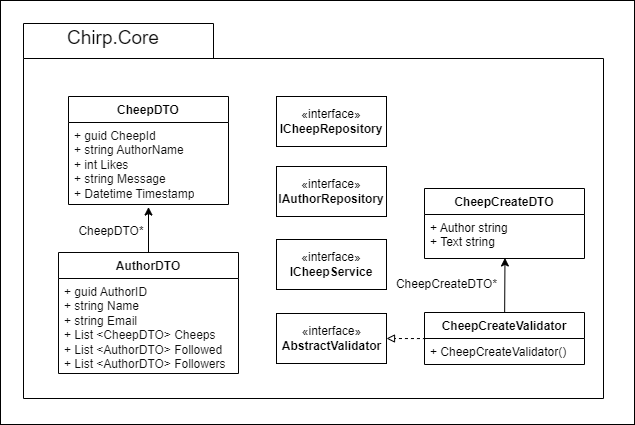
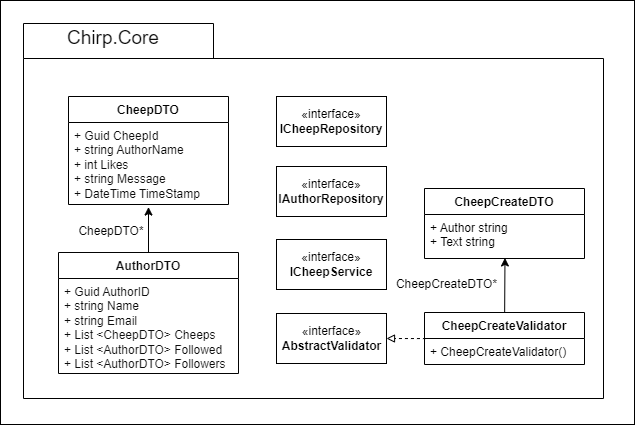
Added missing methods to the UML diagram

Changed region(s): [[0.1795, 0.4282, 0.3291, 0.4894], [0.1197, 0.3059, 0.2693, 0.3365], [0.1197, 0.6729, 0.2394, 0.7035]]

diff --git a/src/Chirp.Infrastructure/CheepRepository.cs b/src/Chirp.Infrastructure/CheepRepository.cs
@@ -82,8 +82,6 @@ public class CheepRepository : ICheepRepository
         return GetRangeOfCheeps(pageNum, cheepsToReturn);
     }
 
-
-
     private static List<CheepDTO> GetRangeOfCheeps(int? pageNum, List<CheepDTO> cheepsToReturn) 
     {
         // Calculate starting index from the given pagenumber
@@ -256,21 +254,7 @@ public class CheepRepository : ICheepRepository
         cheepsToReturn.AddRange(AuthorCheeps);
         cheepsToReturn.AddRange(FollowedCheeps);
         
-        //OrderByDescending doesn't sort the list but returns a new sequence, therefore we need to assign it to a new list
-        var sortedCheeps = cheepsToReturn.OrderByDescending(a => a.Timestamp.Ticks).ToList();
-        int? page = (pageNum - 1) * 32;
-        
-        if (cheepsToReturn.Count < 32)
-        {
-            return sortedCheeps.GetRange(0, cheepsToReturn.Count);
-        } if (page == null)
-        {
-            return sortedCheeps.GetRange(0, 32);
-        } else
-        {
-            int endIndex = Math.Min((int)page + 32, (int)cheepsToReturn.Count);
-            return sortedCheeps.GetRange((int)page, endIndex - (int)(page));
-        }
+        return GetRangeOfCheeps(pageNum, cheepsToReturn);
     }
 
     public int GetCountOfAllCheepsFromCombinedAuthor (string AuthorName)
@@ -278,8 +262,10 @@ public class CheepRepository : ICheepRepository
         List<CheepDTO> AuthorCheeps = GetAllCheepsFromAuthor(AuthorName);
         List<CheepDTO> FollowedCheeps = GetCheepsFromFollowed(AuthorName);
         List<CheepDTO> cheepsToReturn = new List<CheepDTO>();
+
         cheepsToReturn.AddRange(AuthorCheeps);
         cheepsToReturn.AddRange(FollowedCheeps);
+        
         return cheepsToReturn.Count;
     }
 }

diff --git a/src/Chirp.Infrastructure/AuthorRepository.cs b/src/Chirp.Infrastructure/AuthorRepository.cs
@@ -173,7 +173,7 @@ namespace Chirp.Infrastructure
         }
 
         // Helper method: Retrieves all cheeps related to the given author from the db.
-        private  static List<CheepDTO> GetAllCheepsFromAuthor(string Name, ChirpDBContext _dbcontext)
+        private static List<CheepDTO> GetAllCheepsFromAuthor(string Name, ChirpDBContext _dbcontext)
         {
             List<CheepDTO> cheepsToReturn = new List<CheepDTO>();
             try
@@ -197,11 +197,11 @@ namespace Chirp.Infrastructure
         }
 
         // Helper method: Retrieves all followed authors from the AuthorAuthor entity in the db.
-        private static List<AuthorDTO> GetAllFollowedAuthor(Guid AuthorId, ChirpDBContext DBcontext)
+        private static List<AuthorDTO> GetAllFollowedAuthor(Guid AuthorId, ChirpDBContext _dbcontext)
         {
             List<AuthorDTO> followed = new List<AuthorDTO>();
 
-            var Author = DBcontext.Authors.Where(a => a.AuthorId == AuthorId)
+            var Author = _dbcontext.Authors.Where(a => a.AuthorId == AuthorId)
                 .Include(a => a.Followed)
                 .FirstOrDefault();
 
